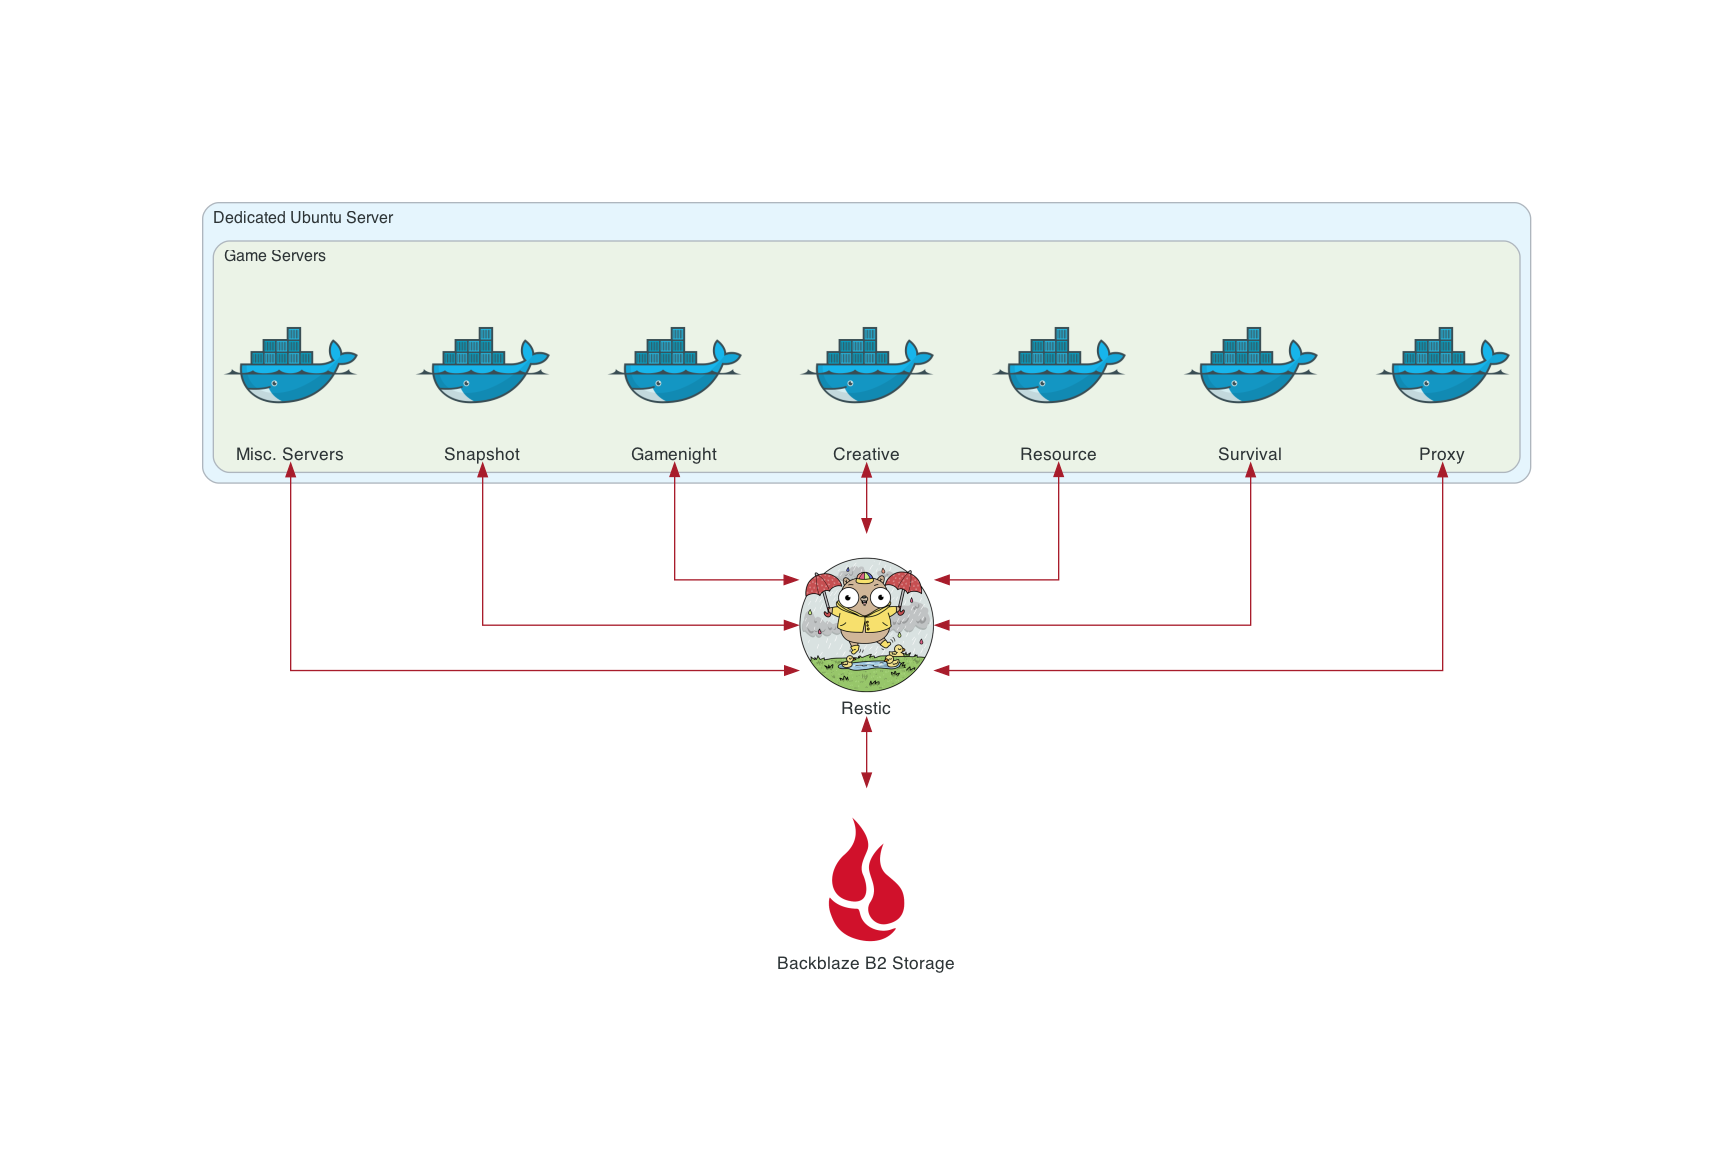
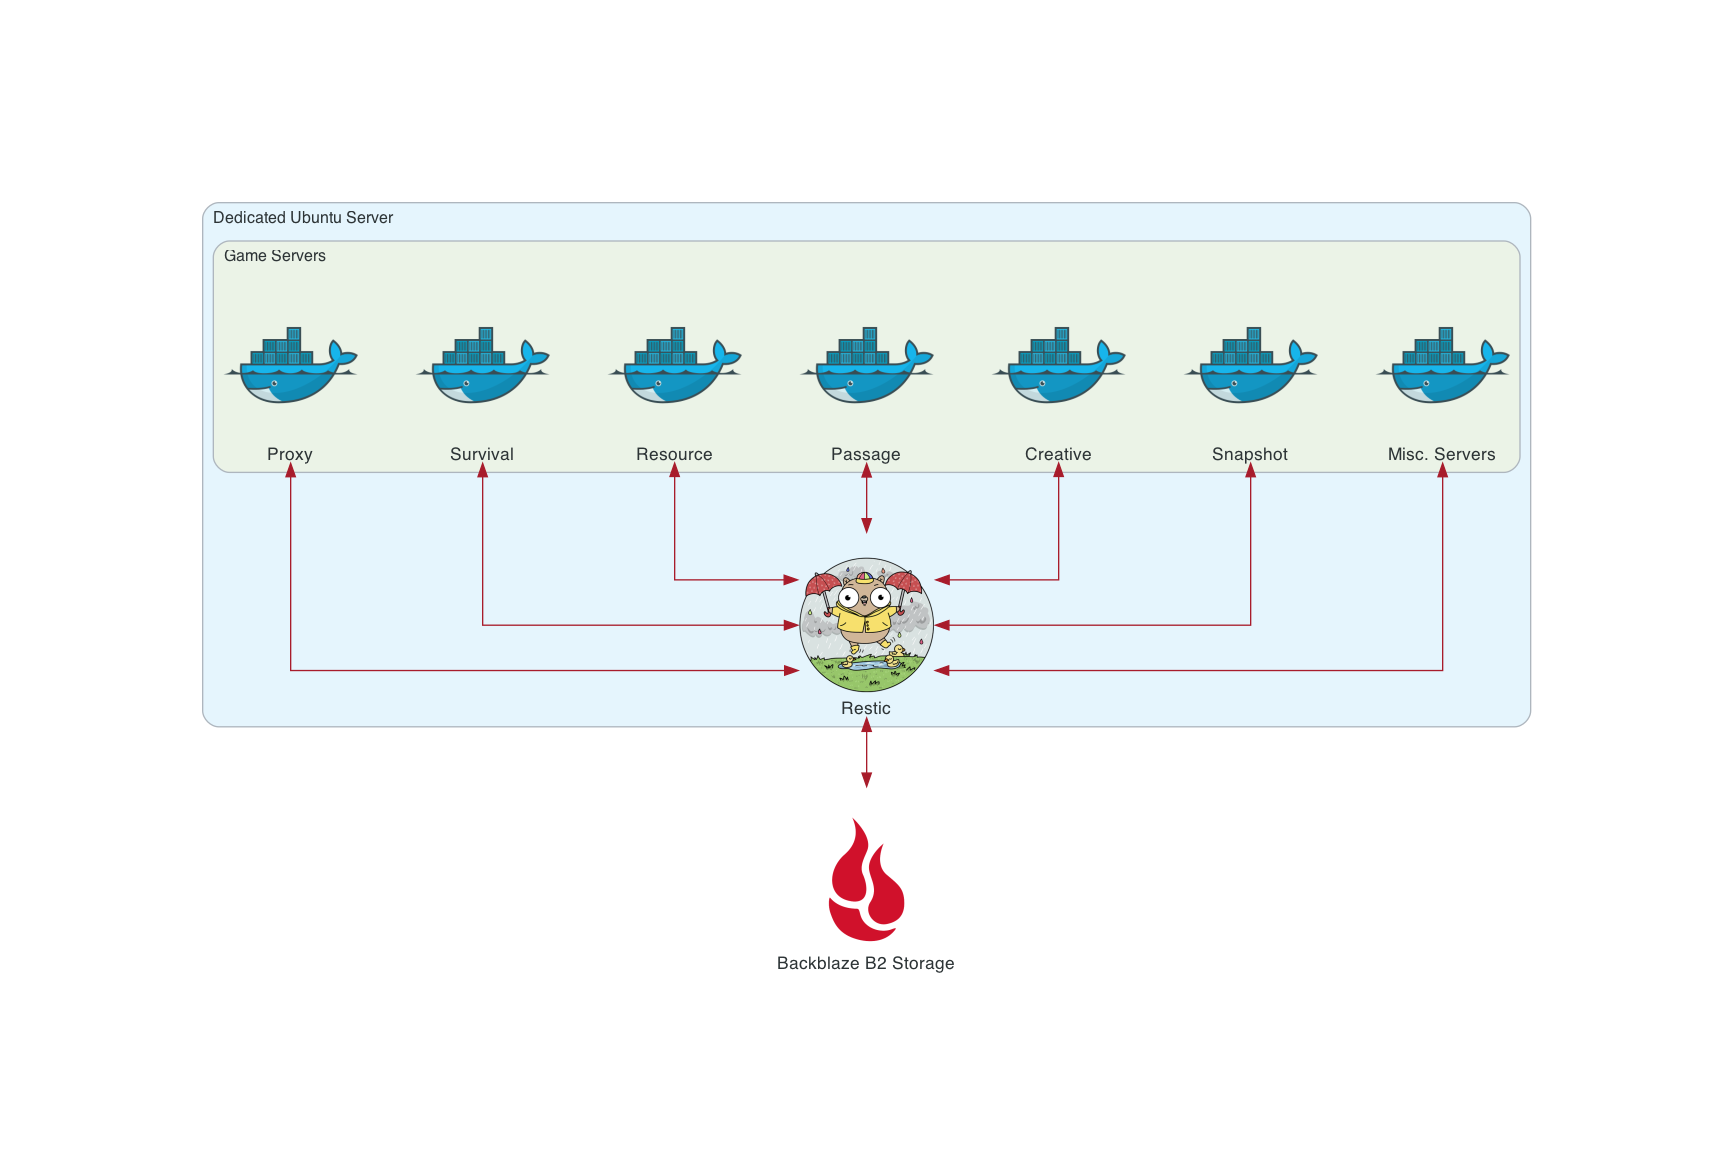
First pass at streamlining and updating arch diagrams

Changed region(s): [[0.0935, 0.3715, 0.9036, 0.65]]

diff --git a/docs/assets/diagrams/proxy_network.py b/docs/assets/diagrams/proxy_network.py
@@ -1,0 +1,47 @@
+# diagram.py
+from diagrams import Cluster, Diagram, Edge
+from diagrams.onprem.container import Docker
+from diagrams.onprem.database import MariaDB
+from diagrams.saas.chat import Discord
+from diagrams.generic.blank import Blank
+from diagrams.custom import Custom
+
+with Diagram(filename="../images/architecture/proxy_network", show=True):
+
+    # custom icons are relative to the filename above
+    # ingamechat = Discord("#ingamechat")
+    # paddingPl3xMap = Blank("") 
+
+    with Cluster("Dedicated Ubuntu Server"):
+
+        phpmyadmin = Custom("phpMyAdmin", "icons/phpmyadmin.png")
+        # pl3xmap = Custom("Pl3xMap", "icons/pl3xmap.png")
+
+        with Cluster("Bungee Network 1"):
+            # padding1 = Blank("")
+            proxy1 = Docker("Proxy")
+            passage = Docker("Passage")
+            resource = Docker("Resource")
+            survival = Docker("Survival")
+            # padding2 = Blank("")
+
+            # proxy1 - Edge(penwidth="0.0") -  padding1
+            proxy1 >> Edge(color="darkgreen") << resource
+            proxy1 >> Edge() << passage
+            proxy1 >> Edge(color="darkgreen") << survival
+            # survival > Edge(minlen="0") < passage
+            # survival >> Edge(color="darkgreen") << passage
+
+            # proxy1 - Edge(penwidth="0.0") -  padding2
+
+        with Cluster("MySQL / MariaDB"):  
+            maindb = MariaDB("Databases")
+            phpmyadmin
+
+    survival >> Edge() << maindb
+    resource >> Edge() << maindb
+    passage >> Edge() << maindb
+    maindb << phpmyadmin
+    # survival >> Edge(color="#7289DA") >> ingamechat
+    # resource  - Edge(penwidth="0.0") - paddingPl3xMap
+    # survival >> pl3xmap

diff --git a/docs/assets/diagrams/game_servers.py b/docs/assets/diagrams/game_servers.py
@@ -3,7 +3,7 @@ from diagrams import Cluster, Diagram, Edge
 from diagrams.onprem.container import Docker
 from diagrams.custom import Custom
 
-with Diagram(filename="../images/architecture/game_servers_ungrouped", show=True, direction="TB"):
+with Diagram(filename="../images/architecture/game_servers", show=True, direction="TB"):
 
     # custom icons are relative to the filename above
     pterodactyl = Custom("Pterodactyl", "icons/pterodactyl.png")
@@ -14,12 +14,12 @@ with Diagram(filename="../images/architecture/game_servers_ungrouped", show=True
             proxy = Docker("Proxy")
             survival = Docker("Survival")
             resource = Docker("Resource")
+            passage = Docker("Passage")
             creative = Docker("Creative")
-            gamenight = Docker("Gamenight")
             snapshot = Docker("Snapshot")
             misc = Docker("Misc. Servers")
 
-            servers = [proxy, survival, resource, creative, snapshot, gamenight, misc]
+            servers = [proxy, survival, resource, passage, creative, snapshot, misc]
 
             pterodactyl >> Edge(color="#004da4") >> servers
            

diff --git a/docs/assets/diagrams/backups.py b/docs/assets/diagrams/backups.py
@@ -6,21 +6,22 @@ from diagrams.custom import Custom
 with Diagram(filename="../images/architecture/backups", show=True, direction="TB"):
     
     # custom icons are relative to the filename above
-    restic = Custom("Restic", "icons/restic.png")
     backblaze = Custom("Backblaze B2 Storage", "icons/backblaze.png")
 
     with Cluster("Dedicated Ubuntu Server"):
+
+        restic = Custom("Restic", "icons/restic.png")
 
         with Cluster("Game Servers"):
             proxy = Docker("Proxy")
             survival = Docker("Survival")
             resource = Docker("Resource")
+            passage = Docker("Passage")
             creative = Docker("Creative")
             snapshot = Docker("Snapshot")
-            gamenight = Docker("Gamenight")
             misc = Docker("Misc. Servers")
 
-        servers = [misc, snapshot, gamenight, creative, resource, survival, proxy]
+            servers = [proxy, survival, resource, passage, creative, snapshot, misc]
 
         servers << Edge(color="#a81c2b") >> restic
         restic << Edge(color="#a81c2b") >> backblaze

diff --git a/docs/documentation/minecraft/server-architecture.md b/docs/documentation/minecraft/server-architecture.md
@@ -9,16 +9,14 @@ To configure and manage our game servers and various community bots on this Ubun
 ## Game Servers
 
 Pterodactyl runs all of our game servers in isolated Docker containers. We can then manage these game servers through the Pterodactyl UI panel, as well as the SFTP access it provides.
-![Pterodactyl](../../assets/images/architecture/game_servers_ungrouped.png)
-
-While all these servers effectively sit alongside each other, we use a BungeeCord server, referred to as our Proxy server, to connect several servers together for the Resource World feature. The following diagram represents the visual hierarchy, and our Proxy setup is explained further below.
-
-![Game Servers](../../assets/images/architecture/game_servers_grouped.png)
+![Pterodactyl](../../assets/images/architecture/game_servers.png)
 
 ## Proxy Network
-![Proxy Network](../../assets/images/architecture/main_network.png)
+![Proxy Network](../../assets/images/architecture/proxy_network.png)
 
-Our proxy network handles connections to and from the Survival and Resource that servers sit 'below' the Proxy in the hierarchy, and are collectively considered to be our "Main" server.
+We use a BungeeCord server, referred to as our Proxy server, to connect several servers together, and tie the Resource World and The Passage into our Survival experience. 
+
+Our proxy network handles connections to and from the Survival, Resource, and Passage servers that sit 'below' the Proxy in the hierarchy, and these servers are collectively considered to be our "Main" server.
 
 The Proxy server utilises a shared set of MySQL databases for a number of use cases:
 

diff --git a/docs/assets/diagrams/README.md b/docs/assets/diagrams/README.md
@@ -11,7 +11,7 @@ Install steps are included in the main [README.md](../../../README.md) file, or 
 
 There are several examples within this folder, though the Diagram site has a [Quick Start](https://diagrams.mingrammer.com/docs/getting-started/installation#quick-start) guide and [Examples](https://diagrams.mingrammer.com/docs/getting-started/examples) page, which formed the basis for our existing diagrams in this documentation.
 
-Custom icons are typically stored in `/docs/images/architecture/icons`, though the Diagrams site provides an [example](https://diagrams.mingrammer.com/docs/getting-started/examples#rabbitmq-consumers-with-custom-nodes) of how to do this via `urllib.request`. Some websites block direct downloads using `urllib` and cause a 403 Forbidden error, and so it is preferable to keep custom icons within this repository.
+Custom icons are typically stored in [`/docs/images/architecture/icons`](../images/architecture/icons) , though the Diagrams site provides an [example](https://diagrams.mingrammer.com/docs/getting-started/examples#rabbitmq-consumers-with-custom-nodes) of how to do this via `urllib.request`. Some websites block direct downloads using `urllib` and cause a 403 Forbidden error, and so it is preferable to keep custom icons within this repository.
 
 ## Generating a Diagram
 To generate a new diagram, run the following command in a working directory:
